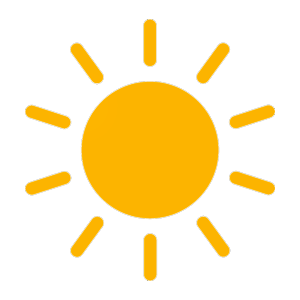
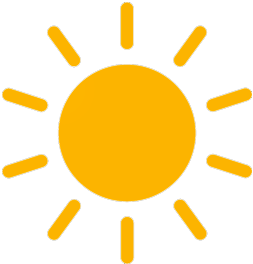
Changes in Desc
-Changed BG
-Positioned everything based on screen size (somewhat)
-Added window status

Changed region(s): [[0.0, 0.0, 0.996, 1.0], [0.2767, 0.8182, 0.3043, 0.8485]]

diff --git a/main.py b/main.py
@@ -4,9 +4,10 @@ from kivy.uix.floatlayout import FloatLayout
 from kivy.uix.behaviors import ButtonBehavior  
 from kivy.uix.image import Image
 from kivy.core.window import Window
+from kivy.uix.label import Label
 
 #Set the window size
-Window.size = (600, 600)
+Window.size = (360, 640)
 
 
 class MainScreen(FloatLayout):
@@ -24,8 +25,6 @@ class MainScreen(FloatLayout):
         #After this is all the ifs to change the text and image in kivy but idk how yet
         #Keywords: Sunny.png, Rain.png, Thunderstorm.png, Cloudy.png
         #The source that needs to be changed is the image to show the weather (I put a comment)
-        
-
 
 class ImageButton(ButtonBehavior, Image):
     #Just so that the button can be image lmao  
